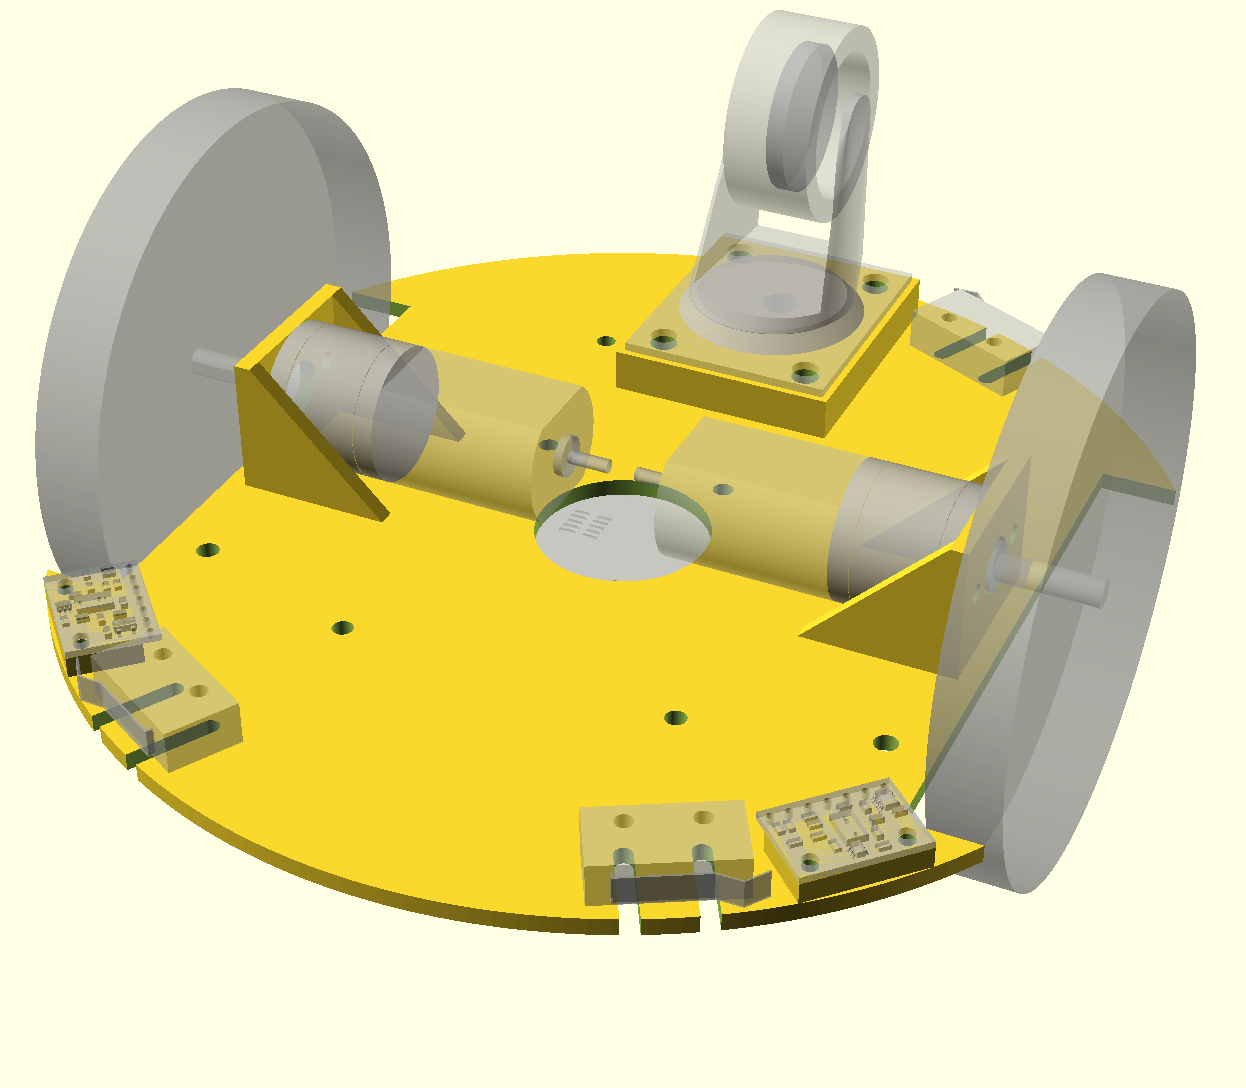
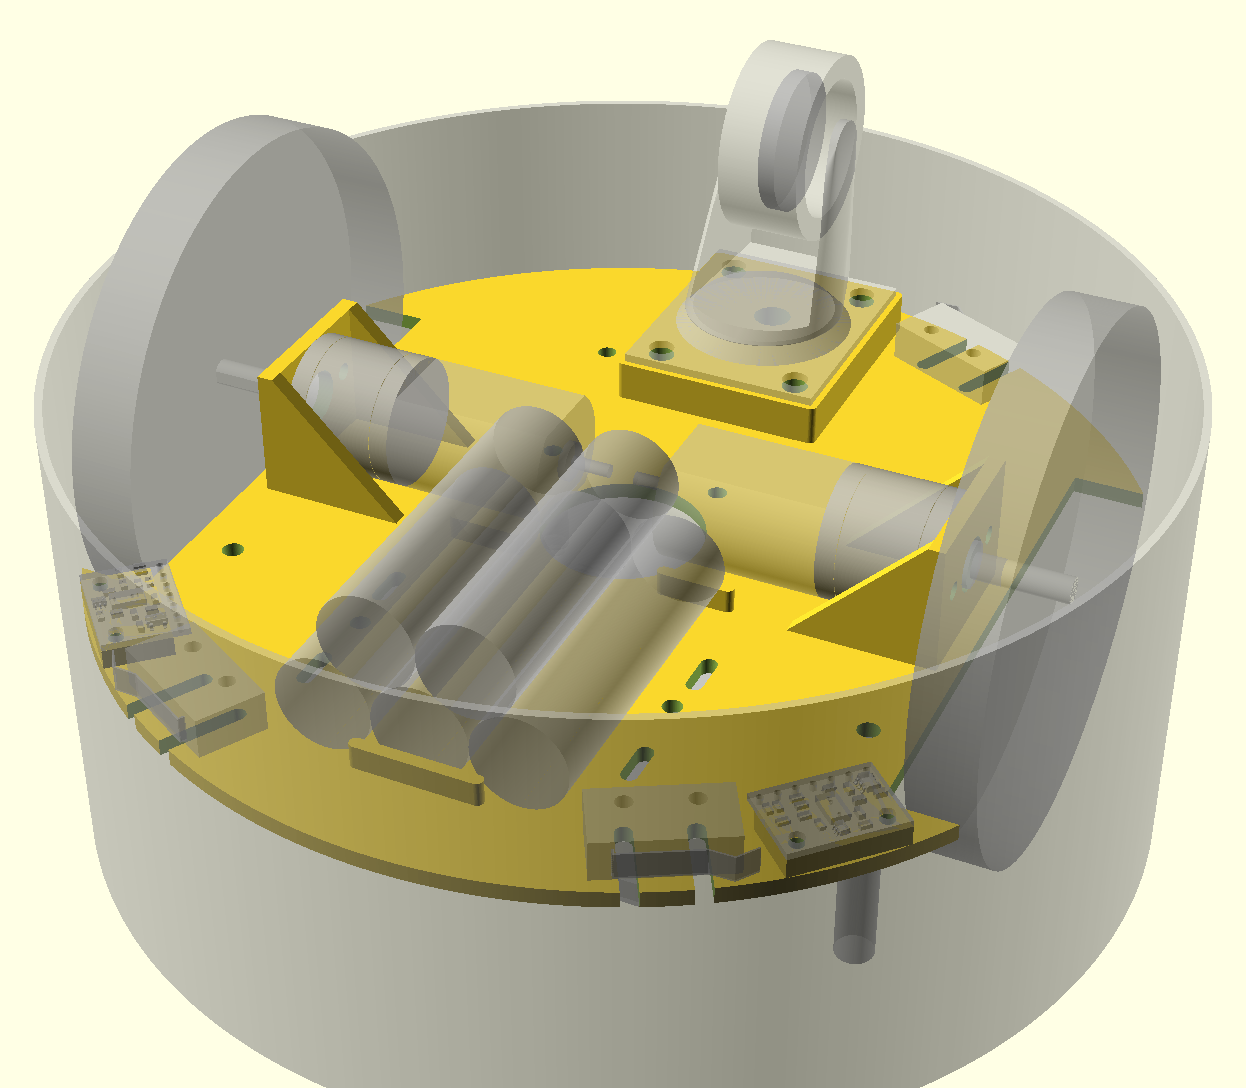
Added bumper skirt
Updated README to add notes about the changes that I have recently made
to the design such as adding the battery pack and bumper skirt.

diff --git a/README.md b/README.md
@@ -52,8 +52,7 @@ Having recently reread the book, I thought it would be fun to build a comparable
 
 
 ## Mechanical Design
-When it comes to robot building, the mechanical portions are my weakest area. For that reason, I started with the mechanical design of the project first. On some other robot projects I have started with software drivers and then never got around
-to even starting on the mechanical portions since I wasn't really looking forward to it.
+When it comes to robot building, the mechanical portions are my weakest area. On some other robot projects I have started with software drivers and then never got around to even starting on the mechanical portions since I wasn't really looking forward to it. Best to get it out of the way first on this project. Doing it first also means that I have something physical to look at and hold earlier in the project to help keep me motivated.
 
 ![Chassis Bottom](cad/ChassisBottom.png)
 
@@ -65,8 +64,12 @@ to even starting on the mechanical portions since I wasn't really looking forwar
   * 1 x Caster
   * 2 x Cliff Detection Sensors (VL6180X) mounted in front of the wheels.
   * 3 x Micro Switches to detect bumper collisions.
+  * 1 x 5 cell (6V) NiMH rechargeable battery.
 * Chassis has holes for attachment of following parts to the topside of the chassis:
   * 5 x Standoffs for Nordic nRF52-DK Development Kit PCB to which shield with remaining sensors/actuators will be mounted.
-  * 3 x Rubber Tube Standoffs to which bumper is attached, allowing bumper to move and press against micro switches when an obstacle is encountered.
+  * 3 x Flexible Rubber Tube Standoffs to which the bumper skirt is attached, allowing bumper to move and press against micro switches when an obstacle is encountered.
+  * Will probably also need at least 50g of counterweight in the back to move the center of mass closer to the caster so that the robot doesn't nose dive during quick decelerations. Only having room for the batteries at the front of the bot increases the need for this counterweight.
+* A separate bumper skirt is printed to enclose the robot.
+  * It is mounted to the chassis on flexible rubber tube standoffs like the Rug Warrior Pro.
 
 ![Chassis Top](cad/ChassisTop.png)
